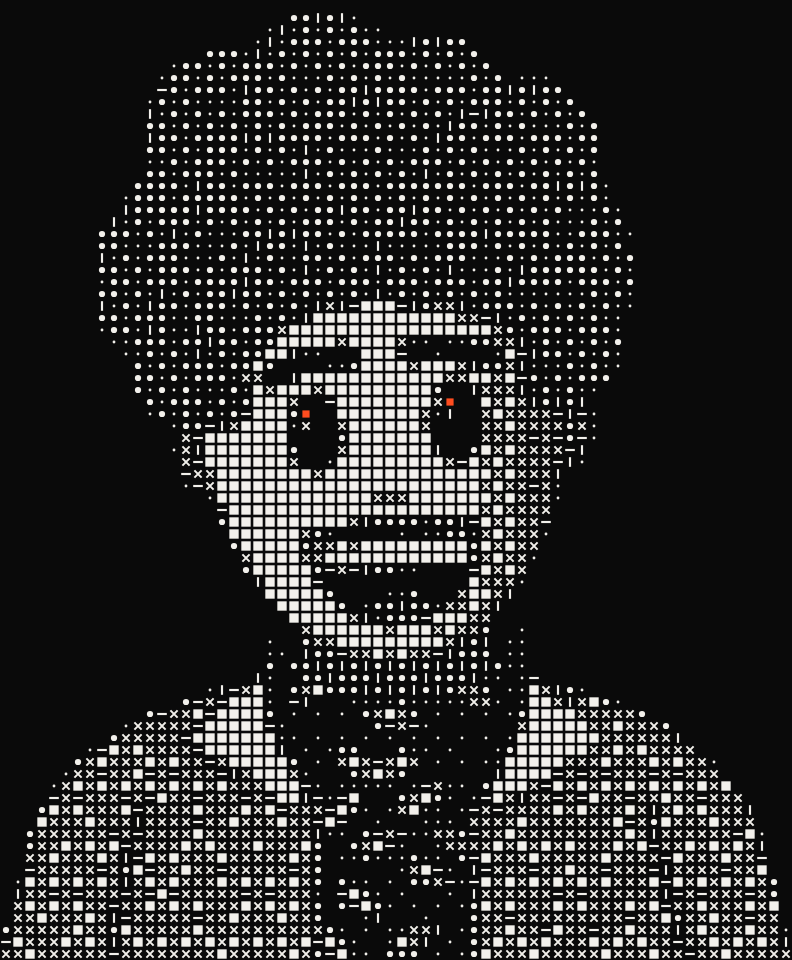
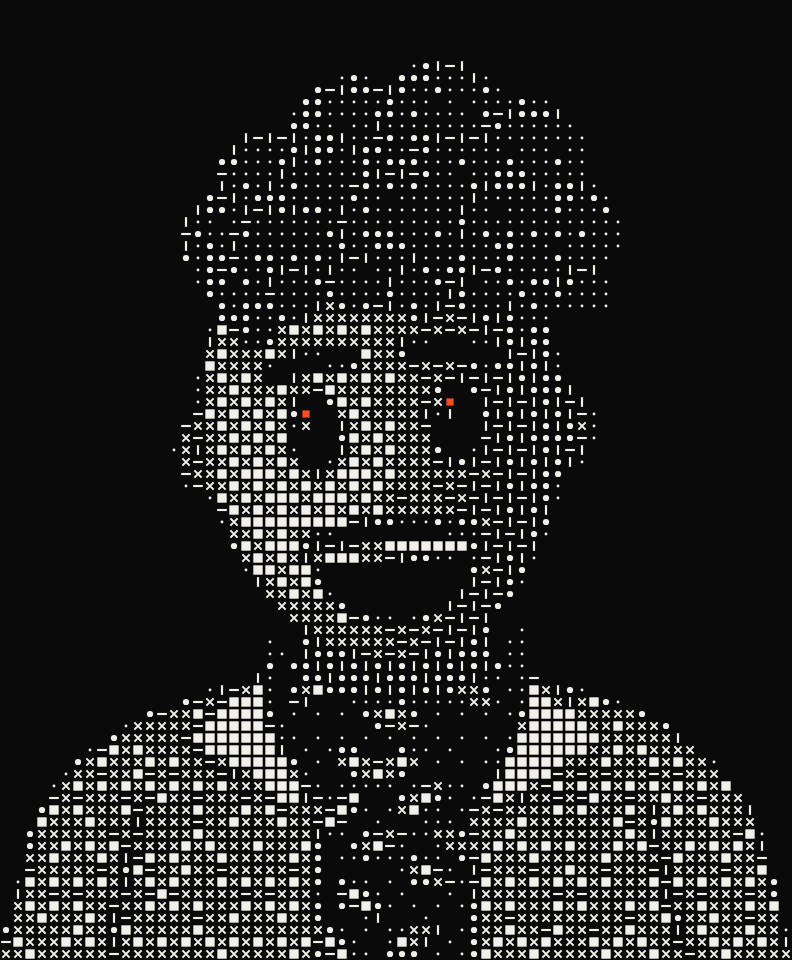
Portrait v2: wavy side-swept hair with ears showing, softer face tones, clean D mouth, tight mobile group

Changed region(s): [[0.1212, 0.0, 0.7879, 0.6875]]

diff --git a/js/portrait.js b/js/portrait.js
@@ -10,18 +10,20 @@ const FG = '#F2F0EB', AC = '#FF4D1F';
 const BAYER = [0, 8, 2, 10, 12, 4, 14, 6, 3, 11, 1, 9, 15, 7, 13, 5];
 const SRC_W = 660, SRC_H = 800;
 
+let mobileY = null;
+export function setPortraitY(y) { mobileY = y; if (live && box && box.mobile && root.classList.contains('gl')) { box.y = y; canvas.style.top = y + 'px'; } }
 /* where the portrait sits, in CSS px of the viewport (plain = in the document flow, size only) */
 export function portraitBox(W, H, plain = false) {
   const mobile = W <= 760;
-  const cols = mobile ? 52 : 66, rows = Math.round(cols * SRC_H / SRC_W);
+  const cols = mobile ? 40 : 66, rows = Math.round(cols * SRC_H / SRC_W);
   const pad = Math.max(20, Math.min(44, W * 0.031));
   let w, x = 0, y = 0;
   if (plain) w = mobile ? Math.min(W * 0.62, 300) : Math.min(W * 0.34, 380);
-  else if (mobile) w = Math.min(W * 0.6, H * 0.36 * cols / rows);
+  else if (mobile) w = Math.min(W * 0.64, H * 0.36 * cols / rows);
   else w = Math.min(W * 0.4, (H - 150) * cols / rows);
   const h = w * rows / cols;
   if (!plain) {
-    if (mobile) { x = (W - w) / 2; y = Math.max(72, H * 0.095); }
+    if (mobile) { x = (W - w) / 2; y = mobileY ?? Math.max(72, H * 0.095); }
     else { x = W - pad - w; y = 70 + (H - 70 - 30 - h) / 2; }
   }
   return { x, y, w, h, cols, rows, cell: w / cols, mobile };
@@ -89,24 +91,27 @@ export function drawCartoon(c, eyeMaskOnly = false) {
       c.fillStyle = gr(0.38); c.beginPath(); c.ellipse(x + (x < 330 ? 3 : -3), y + 4, 9, 18, 0, 0, 7); c.fill();
     });
     /* face: light, shaded softly on one side */
-    facePath(c); c.fillStyle = gr(0.96); c.fill();
+    facePath(c); c.fillStyle = gr(0.8); c.fill();
     c.save(); facePath(c); c.clip();
     const gl = c.createLinearGradient(180, 0, 482, 0);
-    gl.addColorStop(0, 'rgba(0,0,0,0)'); gl.addColorStop(0.62, 'rgba(0,0,0,0)'); gl.addColorStop(1, 'rgba(0,0,0,0.3)');
+    gl.addColorStop(0, 'rgba(0,0,0,0)'); gl.addColorStop(0.45, 'rgba(0,0,0,0)'); gl.addColorStop(1, 'rgba(0,0,0,0.4)');
     c.fillStyle = gl; c.fillRect(150, 150, 360, 400);
-    const gb = c.createLinearGradient(0, 470, 0, 550); gb.addColorStop(0, 'rgba(0,0,0,0)'); gb.addColorStop(1, 'rgba(0,0,0,0.1)');
+    const gb = c.createLinearGradient(0, 470, 0, 550); gb.addColorStop(0, 'rgba(0,0,0,0)'); gb.addColorStop(1, 'rgba(0,0,0,0.15)');
     c.fillStyle = gb; c.fillRect(150, 470, 360, 90);
+    const lit = c.createRadialGradient(262, 420, 10, 262, 420, 150); lit.addColorStop(0, 'rgba(255,255,255,0.3)'); lit.addColorStop(1, 'rgba(255,255,255,0)');
+    c.fillStyle = lit; c.fillRect(150, 250, 360, 320);
     c.restore();
     /* hair: a cluster of overlapping curls, sparse and dark, with a lighter rim on each so the curls read */
-    const back = [[170, 300, 48], [490, 300, 44], [150, 240, 52], [505, 245, 46], [185, 175, 62], [470, 175, 58], [215, 100, 68], [300, 72, 68], [392, 92, 62], [470, 132, 58]];
-    const mid = [[150, 200, 50], [178, 262, 44], [500, 205, 46], [490, 266, 40], [240, 158, 58], [335, 138, 60], [430, 152, 56], [205, 205, 50]];
-    const front = [[255, 226, 40], [310, 212, 42], [368, 218, 42], [425, 232, 38], [214, 262, 34], [460, 262, 32], [194, 320, 28], [470, 322, 26], [196, 292, 24]];
+    const back = [[250, 148, 48], [322, 118, 56], [398, 114, 60], [466, 146, 54], [504, 202, 38], [208, 192, 40], [300, 168, 58], [404, 172, 60]];
+    const mid = [[222, 232, 32], [474, 228, 40], [252, 200, 42], [350, 188, 50], [444, 194, 44], [504, 254, 24]];
+    const front = [[262, 238, 25], [314, 232, 27], [364, 240, 25], [418, 246, 23], [228, 264, 20], [454, 270, 19]];
     [...back, ...mid, ...front].forEach(([x, y, r]) => {
-      c.fillStyle = gr(0.38); c.beginPath(); c.arc(x, y, r, 0, 7); c.fill();
-      c.lineCap = 'round'; c.strokeStyle = gr(0.68); c.lineWidth = 5;
-      c.beginPath(); c.arc(x, y, r - 5, Math.PI * 0.92, Math.PI * 1.62); c.stroke();
-      c.strokeStyle = gr(0.2); c.lineWidth = 4;
-      c.beginPath(); c.arc(x + r * 0.12, y + r * 0.1, r * 0.46, Math.PI * 1.0, Math.PI * 1.75); c.stroke();
+      c.fillStyle = gr(0.3); c.beginPath(); c.arc(x, y, r, 0, 7); c.fill();
+      c.lineCap = 'round'; c.strokeStyle = gr(0.78); c.lineWidth = 6;
+      c.beginPath(); c.arc(x, y, r - 6, Math.PI * 0.9, Math.PI * 1.7); c.stroke();
+      c.strokeStyle = gr(0.14); c.lineWidth = 5;
+      c.beginPath(); c.arc(x + r * 0.1, y + r * 0.12, r * 0.48, Math.PI * 1.0, Math.PI * 1.8); c.stroke();
+      if (r > 36) { c.strokeStyle = gr(0.6); c.lineWidth = 5; c.beginPath(); c.arc(x - r * 0.05, y + r * 0.1, r * 0.3, Math.PI * 0.2, Math.PI * 1.1); c.stroke(); }
     });
     /* brows: short, thick */
     c.lineCap = 'round'; c.strokeStyle = gr(0.1); c.lineWidth = 18;
@@ -118,14 +123,10 @@ export function drawCartoon(c, eyeMaskOnly = false) {
     EYES.forEach(([x, y]) => { c.beginPath(); c.ellipse(x - 7, y - 13, 8.5, 10, 0, 0, 7); c.fill(); });
     /* nose and cheeks */
     c.strokeStyle = gr(0.6); c.lineWidth = 6; c.beginPath(); c.moveTo(322, 412); c.quadraticCurveTo(334, 424, 348, 414); c.stroke();
-    c.strokeStyle = gr(0.7); c.lineWidth = 5;
-    c.beginPath(); c.arc(252, 452, 22, -0.3, 0.9); c.stroke();
-    c.beginPath(); c.arc(412, 452, 22, Math.PI - 0.9, Math.PI + 0.3); c.stroke();
-    /* open smile: dark, teeth on top */
+        /* open smile: dark, teeth on top */
     const mouth = () => { c.beginPath(); c.moveTo(262, 446); c.bezierCurveTo(300, 436, 360, 436, 400, 446); c.bezierCurveTo(394, 498, 358, 514, 331, 514); c.bezierCurveTo(306, 514, 268, 498, 262, 446); c.closePath(); };
     mouth(); c.fillStyle = gr(0.05); c.fill(); c.strokeStyle = gr(0.05); c.lineWidth = 9; c.lineJoin = 'round'; c.stroke();
-    c.save(); mouth(); c.clip(); c.fillStyle = gr(0.97); c.fillRect(262, 449, 138, 24);
-    c.fillStyle = gr(0.5); c.beginPath(); c.ellipse(331, 512, 36, 18, 0, 0, 7); c.fill(); c.restore();
+    c.save(); mouth(); c.clip(); c.fillStyle = gr(1); c.fillRect(262, 451, 138, 15); c.restore();
   });
 }
 

diff --git a/js/field.js b/js/field.js
@@ -2,7 +2,7 @@
    hero name -> 8 project screenshots (with a divider phrase) -> 8 index dots -> quiet drift.
    Everything is a progress value P: integer = a formed target, fraction = the scatter between two. */
 import * as THREE from 'three';
-import { portraitBox, setScatter } from './portrait.js';
+import { portraitBox, setPortraitY, setScatter } from './portrait.js';
 
 const root = document.documentElement;
 const $ = (s, c = document) => c.querySelector(s);
@@ -212,7 +212,7 @@ async function boot() {
   const newT = () => ({ pos: new Float32Array(N * 3), col: new Uint8Array(N * 3) });
   const grey = (c, g) => Math.min(255, Math.round(c * g));
 
-  function sampleText(lines, { frac, maxFs, cy = 0.5, cxPx = null, cyPx = null, wPx = null }) {
+  function sampleText(lines, { frac, maxFs, cy = 0.5, cxPx = null, cyPx = null, wPx = null, capTopPx = null }) {
     const c = document.createElement('canvas'); c.width = W; c.height = H;
     const x = c.getContext('2d', { willReadFrequently: true });
     x.fillStyle = '#000'; x.fillRect(0, 0, W, H);
@@ -222,12 +222,12 @@ async function boot() {
     const fs = Math.min(100 * (wPx || frac * W) / wMax, maxFs);
     x.font = font(fs); x.letterSpacing = `${-fs * 0.035}px`;
     x.textAlign = 'center'; x.textBaseline = 'alphabetic'; x.fillStyle = '#fff';
-    const lh = fs * 1.06, y0 = (cyPx ?? H * cy) - lh * (lines.length - 1) / 2 + fs * 0.26;
+    const lh = fs * 1.06, y0 = capTopPx !== null ? capTopPx + fs * 0.727 : (cyPx ?? H * cy) - lh * (lines.length - 1) / 2 + fs * 0.26;
     lines.forEach((l, i) => x.fillText(l, cxPx ?? W / 2, y0 + i * lh));
     const d = x.getImageData(0, 0, W, H).data, idx = [];
     for (let i = 0; i < W * H; i++) if (d[i * 4] > 128) idx.push(i);
     if (!idx.length) throw new Error('empty text sample');
-    const t = newT();
+    const t = newT(); t.fs = fs; t.base = y0;
     for (let i = 0; i < N; i++) {
       const p = idx[(Math.random() * idx.length) | 0];
       t.pos[i * 3] = (p % W) + Math.random() - W / 2; t.pos[i * 3 + 1] = H / 2 - ((p / W) | 0) - Math.random(); t.pos[i * 3 + 2] = (Math.random() - .5) * 8;
@@ -404,10 +404,18 @@ async function boot() {
     T[11] = sampleDrift();
     blank = { pos: T[11].pos, col: new Uint8Array(N * 3) };
     /* the name leaves room for the glyph portrait: to its left on a wide screen, below it on a phone */
-    const pb = portraitBox(W, H), padX = Math.max(20, Math.min(44, W * 0.031));
+    const padX = Math.max(20, Math.min(44, W * 0.031));
+    let pb = portraitBox(W, H);
+    if (mobile) {
+      /* one centred group: portrait, the name 24px under it, the tagline 32px under that, the scroll cue below */
+      const fs = sampleText(['Sibhimanyu'], { frac: 0.9, maxFs: 1500, capTopPx: 0 }).fs;
+      const tagH = 46, groupH = pb.h + 24 + fs * 0.727 + fs * 0.22 + 32 + tagH, lo = 76, hi = H - 104;
+      setPortraitY(Math.round(lo + Math.max(0, (hi - lo - groupH) * 0.45))); pb = portraitBox(W, H);
+    }
     T[0] = mobile
-      ? sampleText(['Sibhimanyu'], { frac: 0.9, maxFs: 1500, cyPx: (pb.y + pb.h + H - 150) / 2 })
+      ? sampleText(['Sibhimanyu'], { frac: 0.9, maxFs: 1500, capTopPx: pb.y + pb.h + 24 })
       : sampleText(['Sibhimanyu'], { frac: 0.5, maxFs: 1500, wPx: pb.x - padX - 36, cxPx: (padX + pb.x - 36) / 2, cyPx: H * 0.45 });
+    if (mobile) root.style.setProperty('--tagTop', Math.round(T[0].base + T[0].fs * 0.22 + 32) + 'px');
     T[10] = sampleDots();
     T[6] = sampleText(mobile ? ['a classroom,', 'a school', 'and a farm'] : ['a classroom, a school', 'and a farm'], { frac: mobile ? 0.84 : 0.7, maxFs: 220 });
     /* the projects' screenshots stream in behind the hero, in order; nothing waits for them, so a slow connection

diff --git a/index.html b/index.html
@@ -197,8 +197,8 @@
   .gl .idx-list li { background:linear-gradient(90deg, rgba(10,10,10,.5), rgba(10,10,10,.5)); }
 
   @media (max-width:760px) {
-    .gl .tagline { left:20px; bottom:64px; font-size:18px; max-width:260px; }
-    .gl .hint { display:none; }
+    .gl .tagline { left:20px; right:20px; top:var(--tagTop, 60%); bottom:auto; font-size:18px; max-width:none; text-align:center; text-wrap:balance; }
+    .gl .hint { bottom:38px; left:0; right:0; transform:none; text-align:center; }
     .gl .rail { left:20px; right:20px; }
   }
   @media (prefers-reduced-motion: reduce) { * { scroll-behavior:auto !important; } .tagline, .hint { animation:none !important; } }
